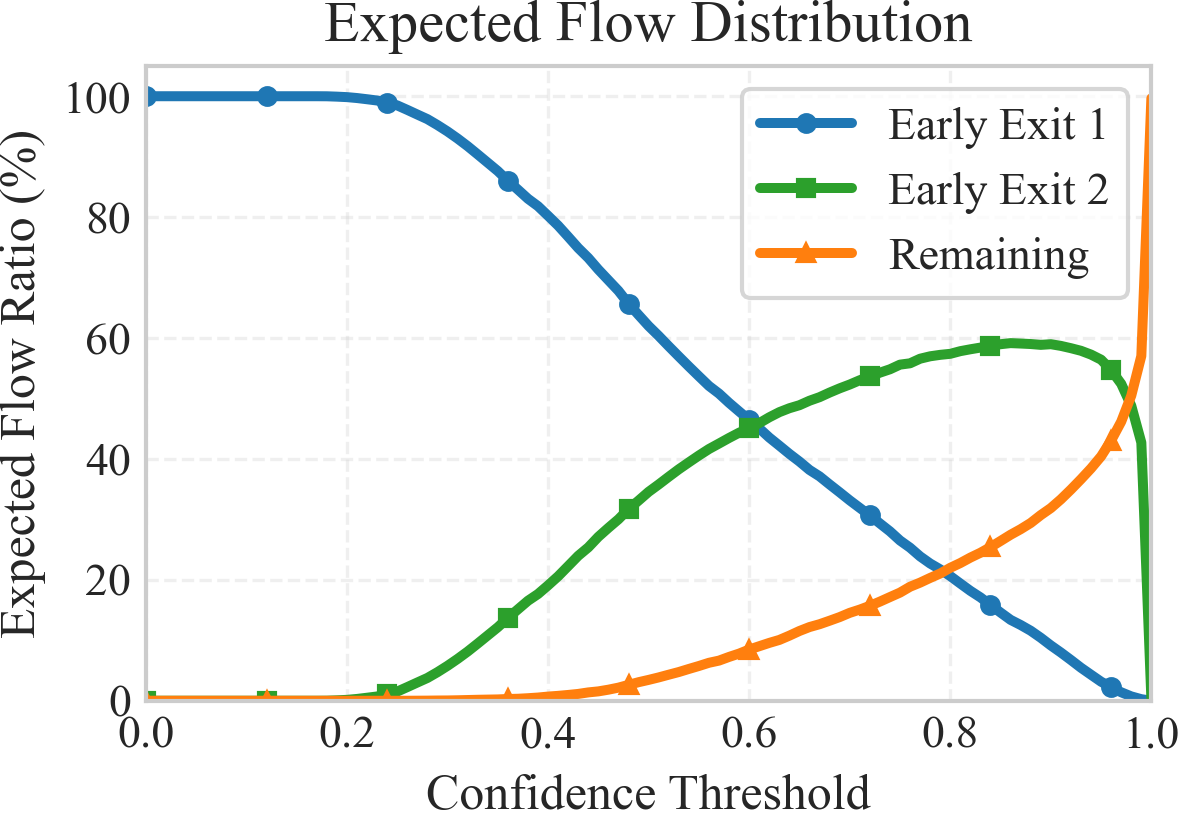
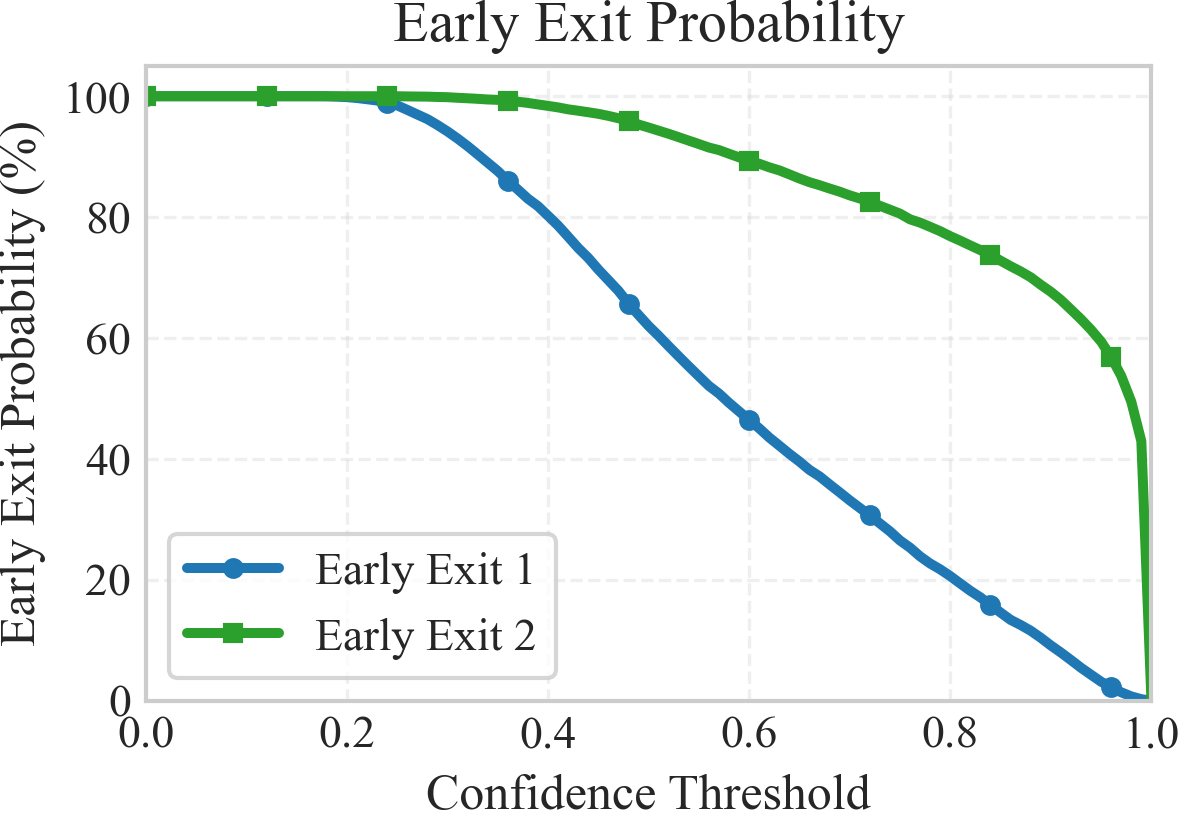
动机实验1：早退筛选效应

diff --git a/Scripts/Exp0_Motivation/plot_all.py b/Scripts/Exp0_Motivation/plot_all.py
@@ -125,7 +125,7 @@ def _plot_figure1(run_dir: Path) -> dict:
     fig, ax = plt.subplots(figsize=(4.0, 2.8))
     ax.plot(
         frame["threshold"],
-        frame["after_layer2_selected_probability_pct"],
+        frame["after_layer2_early_exit_probability_pct"],
         marker="o",
         markevery=12,
         color=FIG1_COLORS["ee1"],
@@ -135,7 +135,7 @@ def _plot_figure1(run_dir: Path) -> dict:
     )
     ax.plot(
         frame["threshold"],
-        frame["after_layer3_selected_probability_pct"],
+        frame["after_layer3_early_exit_probability_pct"],
         marker="s",
         markevery=12,
         color=FIG1_COLORS["ee2"],
@@ -143,23 +143,13 @@ def _plot_figure1(run_dir: Path) -> dict:
         markeredgewidth=1.0,
         label="Early Exit 2",
     )
-    ax.plot(
-        frame["threshold"],
-        frame["final_exit_selected_probability_pct"],
-        marker="^",
-        markevery=12,
-        color=FIG1_COLORS["remaining"],
-        linewidth=2.4,
-        markeredgewidth=1.0,
-        label="Remaining",
-    )
     ax.set_xlabel("Confidence Threshold")
-    ax.set_ylabel("Expected Flow Ratio (%)")
+    ax.set_ylabel("Early Exit Probability (%)")
     ax.set_xlim(0.0, 1.0)
     ax.set_xticks([0.0, 0.2, 0.4, 0.6, 0.8, 1.0])
     ax.set_ylim(0.0, 105.0)
-    ax.legend(loc="upper right", frameon=True)
-    ax.set_title("Expected Flow Distribution")
+    ax.legend(loc="lower left", frameon=True)
+    ax.set_title("Early Exit Probability")
 
     fig.tight_layout(pad=0.2)
     probability_paths = _save(fig, run_dir, "fig1b_early_exit_probability")
